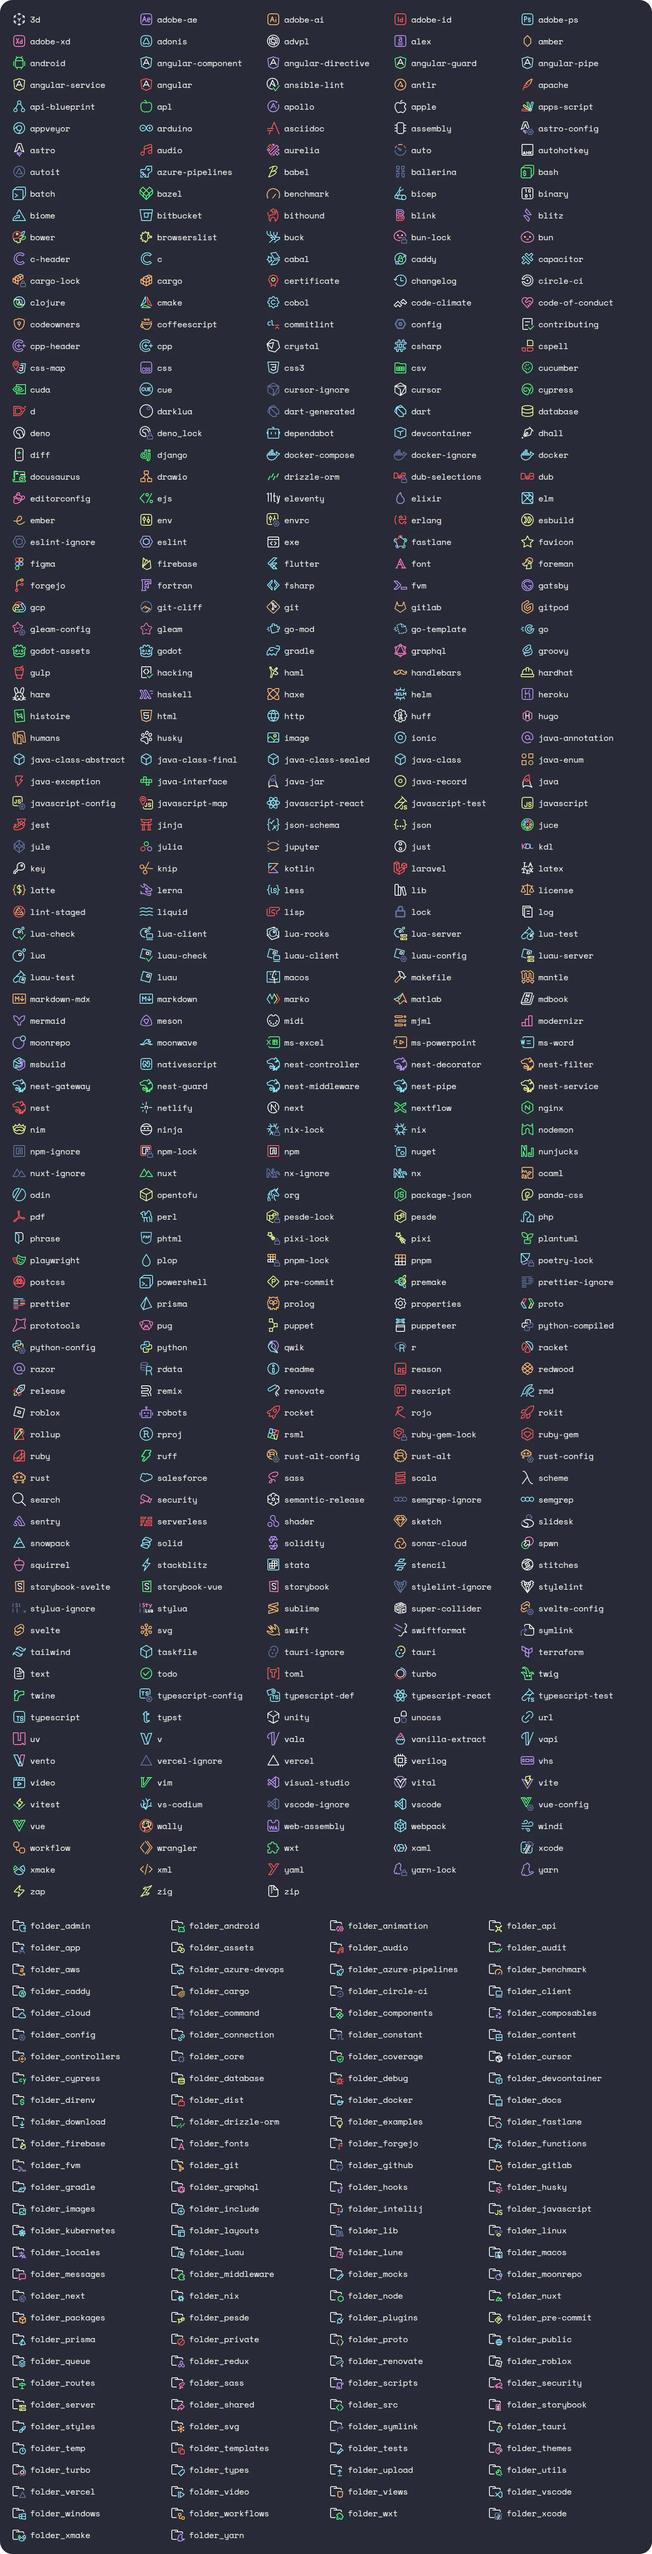
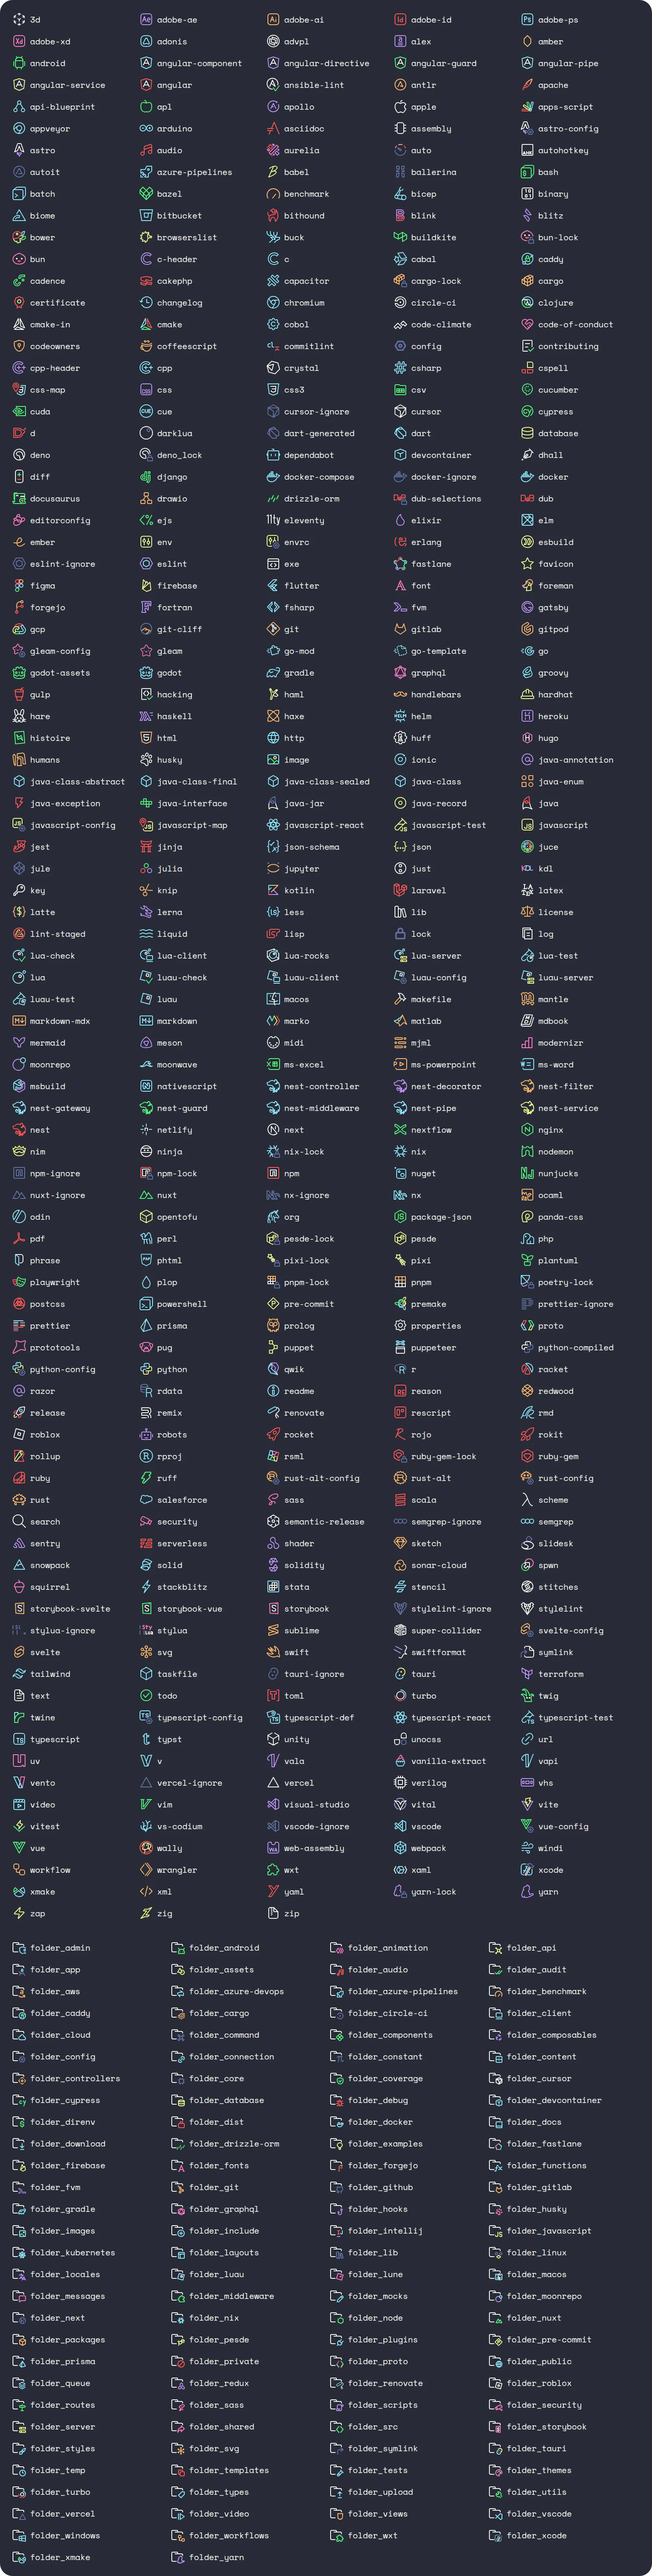
+5 iconos 3.

diff --git a/src/defaults/fileIcons.ts b/src/defaults/fileIcons.ts
@@ -358,6 +358,9 @@ const fileIcons: FileIcons = {
       '.buckconfig',
     ],
   },
+  'buildkite': {
+    fileNames: ['buildkite.yml', 'buildkite.yaml'],
+  },
   'bun-lock': {
     fileNames: ['bun.lock', 'bun.lockb'],
   },
@@ -382,6 +385,12 @@ const fileIcons: FileIcons = {
   'caddy': {
     fileExtensions: ['caddyfile'],
     fileNames: ['caddyfile'],
+  },
+  'cadence': {
+    fileExtensions: ['cdc'],
+  },
+  'cakephp': {
+    fileNames: ['bin/cake'],
   },
   'capacitor': {
     fileNames: [
@@ -416,6 +425,9 @@ const fileIcons: FileIcons = {
       'changes.txt',
     ],
   },
+  'chromium': {
+    fileExtensions: ['crx'],
+  },
   'circle-ci': {
     fileNames: ['circle.yml'],
   },
@@ -425,6 +437,12 @@ const fileIcons: FileIcons = {
       'clj',
       'cljs',
       'cljc',
+    ],
+  },
+  'cmake-in': {
+    fileExtensions: [
+      'cmake.in',
+      'mk.in',
     ],
   },
   'cmake': {
